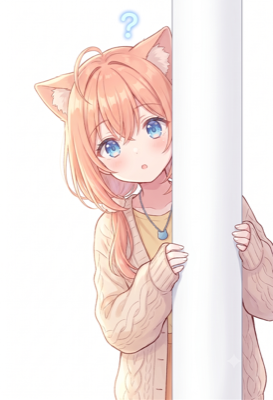
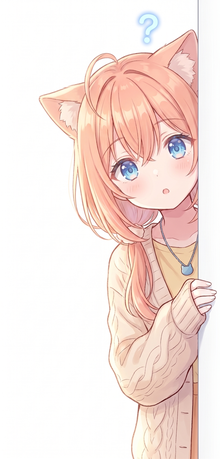
feat: Hinata peeks from the bottom-right, right edge as the pillar
Repositioned from an inline avatar to an absolutely-positioned corner
image, cropped and re-exported so the pillar she's gripping lands
exactly at the crop's right edge — flush against .hinata's own right
boundary, so the component's own edge reads as the pillar in the
image. Words get right/bottom padding so they don't run under her.

diff --git a/src/lib/Hinata.svelte b/src/lib/Hinata.svelte
@@ -32,8 +32,13 @@
 </script>
 
 <div class="hinata">
+  <div class="words">
+    {@render children?.()}
+  </div>
   <div class="portrait-wrap">
     {#if revealed}
+      <!-- 絵の右の縁が、そのまま柱の縁 ── この箱の右端に絵の右端を
+           ぴったり合わせて、柱の向こうから覗いているように見せる。 -->
       <img class="portrait-img" src="/hinata.png" alt="" />
     {:else}
       <button type="button" class="portrait" onclick={reveal} aria-label={t().hinata.reveal}>
@@ -56,30 +61,42 @@
       </button>
     {/if}
   </div>
-  <div class="words">
-    {@render children?.()}
-  </div>
 </div>
 
 <style>
+  /* ひなたは右下から覗く ── 絵の右端をこの箱の右端にぴったり合わせて、
+     右の境界そのものを柱に見立てる。文字は絵の下に潜り込まないよう、
+     右と下に絵の分の余白をあける。 */
   .hinata {
-    display: flex;
-    gap: 1rem;
-    align-items: flex-start;
+    position: relative;
     margin-bottom: 1.4rem;
+    padding-right: 4.5rem;
+    padding-bottom: 6.5rem;
   }
 
-  /* 絵の来る場所。押すまでは、あたたかい色の丸に、線一本の耳だけ。 */
+  .words {
+    font-family: var(--font-round);
+  }
+
+  .words :global(p) {
+    margin: 0 0 0.4rem;
+  }
+
+  .words :global(p:last-child) {
+    margin-bottom: 0;
+  }
+
   .portrait-wrap {
+    position: absolute;
+    right: 0;
+    bottom: 0;
+  }
+
+  /* 押すまでは、あたたかい色の丸に、線一本の耳だけ。 */
+  .portrait {
     position: relative;
-    flex: none;
     width: 3rem;
     height: 3rem;
-  }
-
-  .portrait {
-    width: 100%;
-    height: 100%;
     padding: 0;
     border-radius: 50%;
     background: var(--blush);
@@ -91,15 +108,6 @@
     border-color: var(--ink-soft);
   }
 
-  .portrait-img {
-    width: 100%;
-    height: 100%;
-    border-radius: 50%;
-    object-fit: cover;
-    object-position: top;
-    border: 1px solid var(--sun);
-  }
-
   .ears {
     position: absolute;
     inset: 0;
@@ -108,16 +116,9 @@
     overflow: visible;
   }
 
-  .words {
-    padding-top: 0.3rem;
-    font-family: var(--font-round);
-  }
-
-  .words :global(p) {
-    margin: 0 0 0.4rem;
-  }
-
-  .words :global(p:last-child) {
-    margin-bottom: 0;
+  .portrait-img {
+    display: block;
+    height: 7.5rem;
+    width: auto;
   }
 </style>
